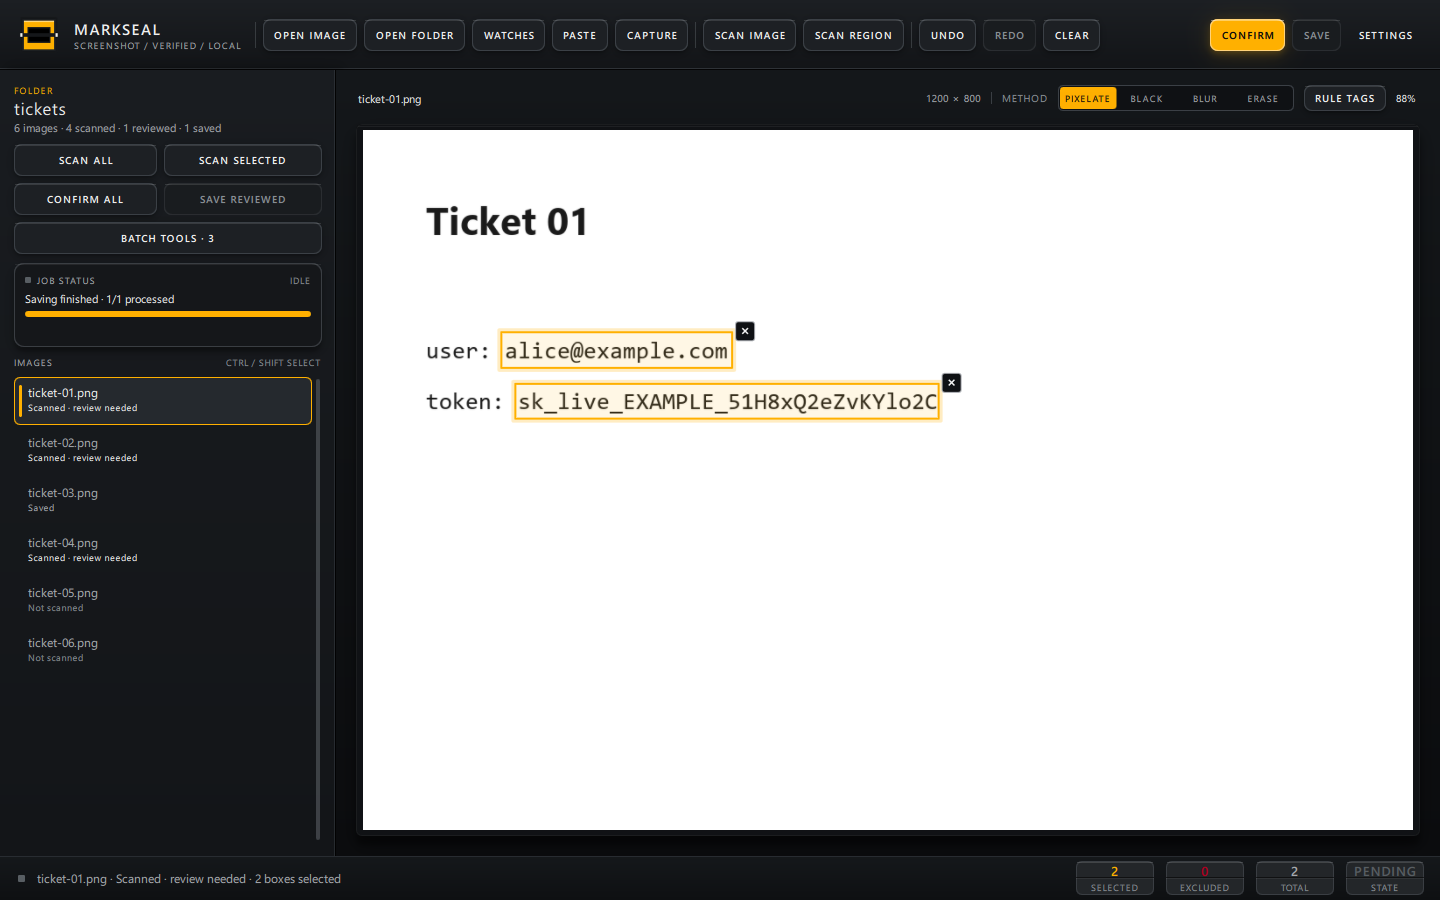
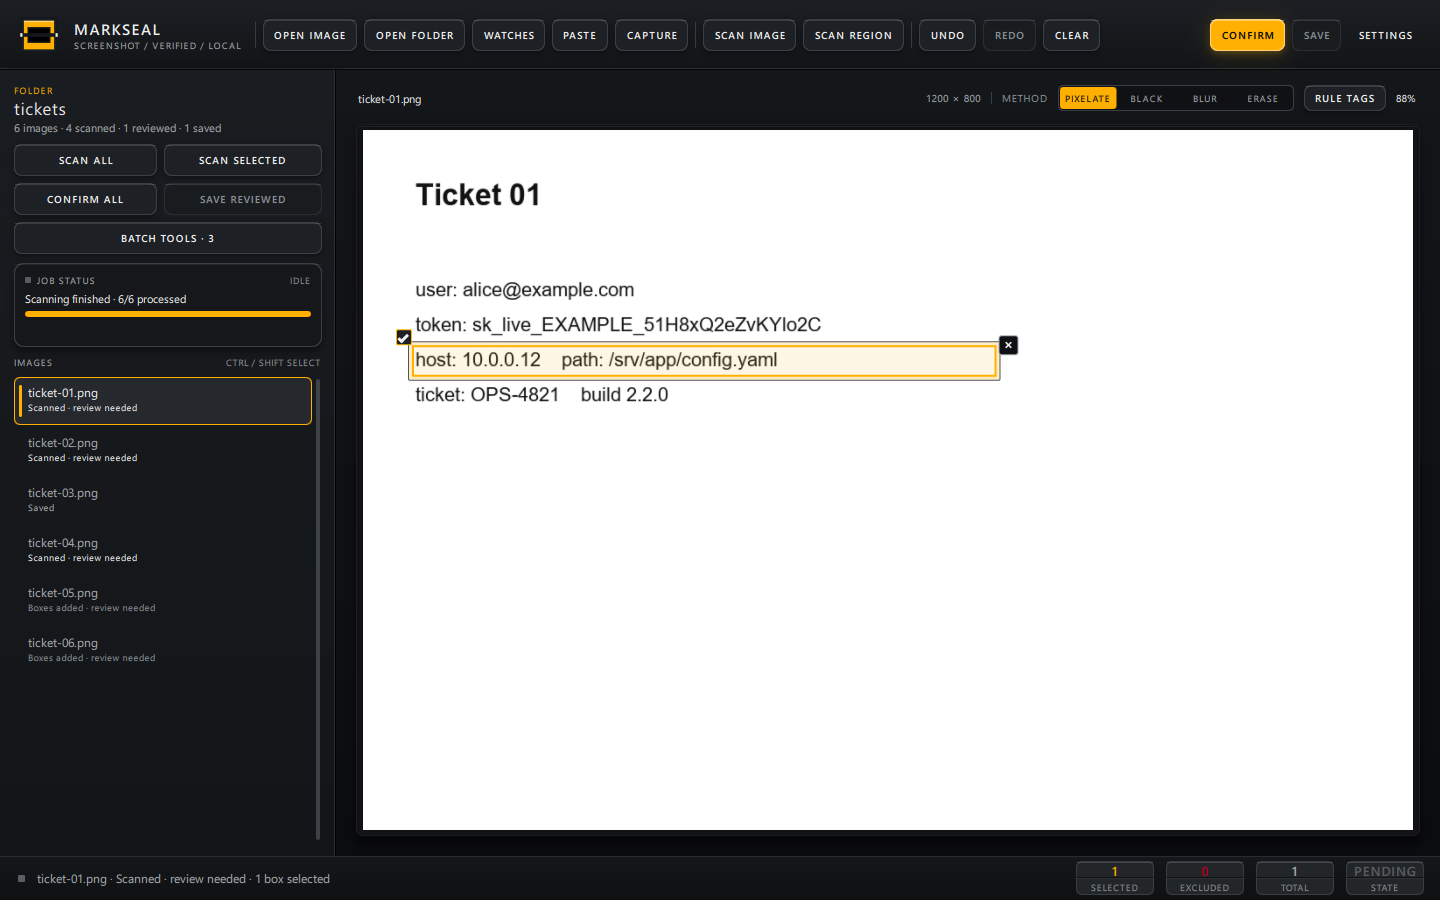
Clarify box state and immediate-save settings

diff --git a/markseal/qml/Viewer.qml b/markseal/qml/Viewer.qml
@@ -412,10 +412,74 @@ Item {
 
                     Rectangle {
                         anchors.fill: parent
+                        anchors.margins: -4
+                        radius: 2
+                        color: "transparent"
+                        border.width: 1
+                        border.color: Theme.ink
+                        opacity: 0.7
+                    }
+
+                    Rectangle {
+                        anchors.fill: parent
                         radius: 1
                         color: box.boxData.selected ? Theme.amberFill : Theme.redFill
                         border.width: 2
                         border.color: box.boxData.selected ? Theme.amber : Theme.red
+                    }
+
+                    Item {
+                        id: stateBadge
+                        z: 12
+                        width: 16
+                        height: 16
+                        x: box.x < 16 ? 2 : -16
+                        y: box.y < 16 ? 2 : -16
+                        Accessible.role: Accessible.Indicator
+                        Accessible.name: box.boxData.selected
+                                        ? "Included box" : "Excluded box"
+                        Accessible.description: box.boxData.selected
+                                                ? "This area will be redacted."
+                                                : "This area will remain visible."
+
+                        Rectangle {
+                            anchors.fill: parent
+                            radius: 2
+                            color: Theme.panelRaised
+                            border.width: 1
+                            border.color: box.boxData.selected ? Theme.amber : Theme.red
+                        }
+
+                        Rectangle {
+                            visible: box.boxData.selected
+                            width: 3
+                            height: 6
+                            radius: 1
+                            x: 3
+                            y: 8
+                            rotation: -45
+                            color: Theme.white
+                        }
+
+                        Rectangle {
+                            visible: box.boxData.selected
+                            width: 3
+                            height: 10
+                            radius: 1
+                            x: 7
+                            y: 4
+                            rotation: 45
+                            color: Theme.white
+                        }
+
+                        Rectangle {
+                            visible: !box.boxData.selected
+                            anchors.centerIn: parent
+                            width: 7
+                            height: 2
+                            radius: 1
+                            color: Theme.white
+                        }
                     }
 
                     Rectangle {

diff --git a/markseal/qml/SettingsWindow.qml b/markseal/qml/SettingsWindow.qml
@@ -19,6 +19,7 @@ Window {
     visible: false
 
     property string tab: "engine"
+    readonly property bool immediateTab: tab === "watched" || tab === "blocked"
     property string errorText: ""
     property bool showDiagnostics: false
     property var selectedCategories: []
@@ -766,7 +767,7 @@ Window {
 
                             Text {
                                 Layout.fillWidth: true
-                                text: "CHANGES ON THIS PAGE SAVE IMMEDIATELY, EVEN IF YOU CANCEL"
+                                text: "CHANGES ON THIS PAGE SAVE IMMEDIATELY. CLOSE WHEN DONE."
                                 wrapMode: Text.WordWrap
                                 color: Theme.amber
                                 font.family: Theme.displayFont
@@ -780,6 +781,7 @@ Window {
 
                                 ConcourseButton {
                                     text: "ADD FOLDER"
+                                    variant: "primary"
                                     onClicked: Backend.watches.chooseFolder()
                                 }
 
@@ -938,7 +940,7 @@ Window {
 
                             Text {
                                 Layout.fillWidth: true
-                                text: "CHANGES ON THIS PAGE SAVE IMMEDIATELY, EVEN IF YOU CANCEL"
+                                text: "CHANGES ON THIS PAGE SAVE IMMEDIATELY. CLOSE WHEN DONE."
                                 wrapMode: Text.WordWrap
                                 color: Theme.amber
                                 font.family: Theme.displayFont
@@ -1306,12 +1308,13 @@ Window {
             Item { Layout.fillWidth: true; visible: settings.errorText.length === 0 }
 
             ConcourseButton {
-                text: "CANCEL"
+                text: settings.immediateTab ? "CLOSE" : "CANCEL"
                 onClicked: settings.closeSettings()
             }
 
             ConcourseButton {
                 text: "APPLY"
+                visible: !settings.immediateTab
                 variant: "primary"
                 onClicked: {
                     if (settings.tryApply()) {

diff --git a/markseal/qml/RailTab.qml b/markseal/qml/RailTab.qml
@@ -22,9 +22,12 @@ Item {
         color: pointer.pressed
                ? Qt.lighter(Theme.tabActiveFace, 1.06)
                : tab.active ? Theme.tabActiveFace
-               : (pointer.containsMouse ? Theme.tabHover : "transparent")
-        border.width: tab.active || pointer.pressed ? 1 : 0
-        border.color: pointer.pressed ? Theme.amber : Theme.tabBorder
+               : "transparent"
+        border.width: tab.active || pointer.pressed || pointer.containsMouse ? 1 : 0
+        border.color: pointer.pressed
+                      ? Theme.amber
+                      : tab.active ? Theme.tabBorder
+                      : (pointer.containsMouse ? Theme.steelMid : "transparent")
         Behavior on color { ColorAnimation { duration: 100 } }
     }
 

diff --git a/markseal/facades/alerts.py b/markseal/facades/alerts.py
@@ -10,7 +10,7 @@ from .. import themes
 def box_hint(theme_id):
     entry = themes.spec(theme_id)
     return (f'Space includes or excludes. '
-            f'{entry.selected_name.capitalize()} = selected; {entry.excluded_name} = excluded. '
+            f'Check ({entry.selected_name}) = selected; dash ({entry.excluded_name}) = excluded. '
             f'× removes a box.')
 
 

diff --git a/docs/settings.md b/docs/settings.md
@@ -1,6 +1,6 @@
 # Settings
 
-Settings open in a separate window. **Apply** saves preferences; Cancel, Escape, or closing the window discards edits. Blocked-pattern and watched-folder changes save immediately. Preferences are stored locally.
+Settings open in a separate window. **Apply** saves preferences; Cancel, Escape, or closing the window discards edits on settings tabs. Watched folders and blocked patterns save immediately; those tabs show **Close** instead of Cancel and hide Apply. Preferences are stored locally.
 
 ## OCR
 
@@ -75,13 +75,13 @@ Each row shows the folder name and path, a **MANUAL** or **AUTO** control, an **
 
 Exports from a watch go to that folder's own `redacted` subfolder, not to the global output folder. When **Include subfolders** is on, the source's subfolders are repeated under `redacted`, so `sub/a.png` exports to `redacted/sub/a_redacted.png`. That keeps one watch's files from colliding with another's, and a manual save from a watched folder uses the same mirrored destination. The **Coordinate log** setting still applies.
 
-Changes on this page save immediately, even if you cancel the settings window. See [Watch folders](../README.md#watch-folders) for the two policies and [Reviewing and redacting](reviewing.md#watched-folders-and-the-inbox) for the inbox.
+Changes on this page save immediately. Close the window when you are done. See [Watch folders](../README.md#watch-folders) for the two policies and [Reviewing and redacting](reviewing.md#watched-folders-and-the-inbox) for the inbox.
 
 ## Appearance
 
 ![Theme picker](images/settings-appearance.png)
 
-Choose one of six themes: Split-flap Concourse (default), Railway Timetable Rack, Jet-age Ticket Wallet, Centre-rail Reference, Crouwel Grid Specimen, and Midnight Transit Diagram. Clicking a card previews it across the window; **Apply** keeps it. The bottom status line names the current theme's selected and excluded colors. No network calls are involved.
+Choose one of six themes: Split-flap Concourse (default), Railway Timetable Rack, Jet-age Ticket Wallet, Centre-rail Reference, Crouwel Grid Specimen, and Midnight Transit Diagram. Clicking a card previews it across the window; **Apply** keeps it. The bottom status line names the theme's selected and excluded colors and their check and dash marks. No network calls are involved.
 
 ![Switching between MarkSeal themes](images/themes.gif)
 

diff --git a/docs/reviewing.md b/docs/reviewing.md
@@ -2,7 +2,7 @@
 
 ## Boxes and selection
 
-Suggestions start selected. The theme accent marks selected boxes and the primary action; the stop color marks excluded boxes (amber and red in the default Split-flap theme).
+Suggestions start selected. The theme accent marks selected boxes and the primary action; the stop color marks excluded boxes (amber and red in the default Split-flap theme). Selected boxes carry a check mark, excluded boxes a dash, and a dark keyline keeps the boundary visible on light screenshots.
 
 - Click a box to exclude it; click again to include it.
 - Click the X at a box's upper-right corner, or press Delete with the viewer focused, to remove it.
